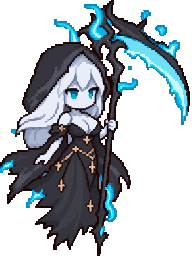
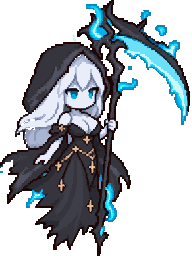
Reaper frames: stray flame wisps above the hood and by the hair removed (tools/trim-wisps.mjs)
Claude-Session: https://claude.ai/code/session_016nQjWYzNmYvignD8KqfcJb

diff --git a/docs/ASSETS.md b/docs/ASSETS.md
@@ -104,6 +104,7 @@ node tools/slice-sheet.mjs <sheet> [--report]
 - `node tools/snap-image.mjs <raw.png> <out.png> [--step N]`: целая картинка (фон) по родной сетке модели без потерь; показ целым множителем через `density` в manifest.
 - `node tools/make-grass.mjs [--seed 7]`: процедурный бесшовный тайл `assets/sprites/grass.png` (128×128).
 - `node tools/make-slash.mjs`: взмах клинка `assets/sprites/proj_blade_arc.png`, край удара конусом: кусок кольца вокруг героя из SVG почти белого цвета (tint супероружия красит его целиком). Геометрия кадра в `WEAPON_BEHAVIOR.melee_arc` (`src/data/weapons.js`), её же читает оружие; после правки чисел перезапусти скрипт.
+- `node tools/trim-wisps.mjs [apply]`: у жницы PixelLab дорисовал отдельные язычки пламени над капюшоном и у волос; скрипт стирает в заданных зонах кадра отдельные пятна и синие пиксели, приросшие к фигуре, затем лента пересобирается `hd-frames.mjs` с масштабом 1.5.
 - `node tools/demouth.mjs [key...] [--dry] [--debug]`: PixelLab дорисовывает персонажам рот, которого нет на исходном рисунке. Скрипт находит голову на каждом кадре (сдвиг относительно кадра 0), ищет под глазами замкнутые пятна не цвета кожи и заливает их кожей вокруг; правит `assets/raw/<key>_{anim|walk}_pixellab/*.png` на месте, после него ленты пересобираются `tools/hd-frames.mjs` (0.4 для обычных, 1 для боссов). Точки лица по персонажам и ручные прямоугольники для трудных кадров заданы в начале скрипта; `--debug` пишет лист проверки `tools/out/demouth-debug.png`.
 - `node tools/sprite-table.mjs`: пересобирает раздел «Таблица спрайтов» в этом файле; запускать после правок manifest.
 - `node tools/placeholders.mjs [--force]` (или `npm run placeholders`): цветные заглушки по manifest (форма из `shape`, цвет из `color`). Существующие файлы не трогает без `--force`, чтобы не затереть настоящие спрайты.
